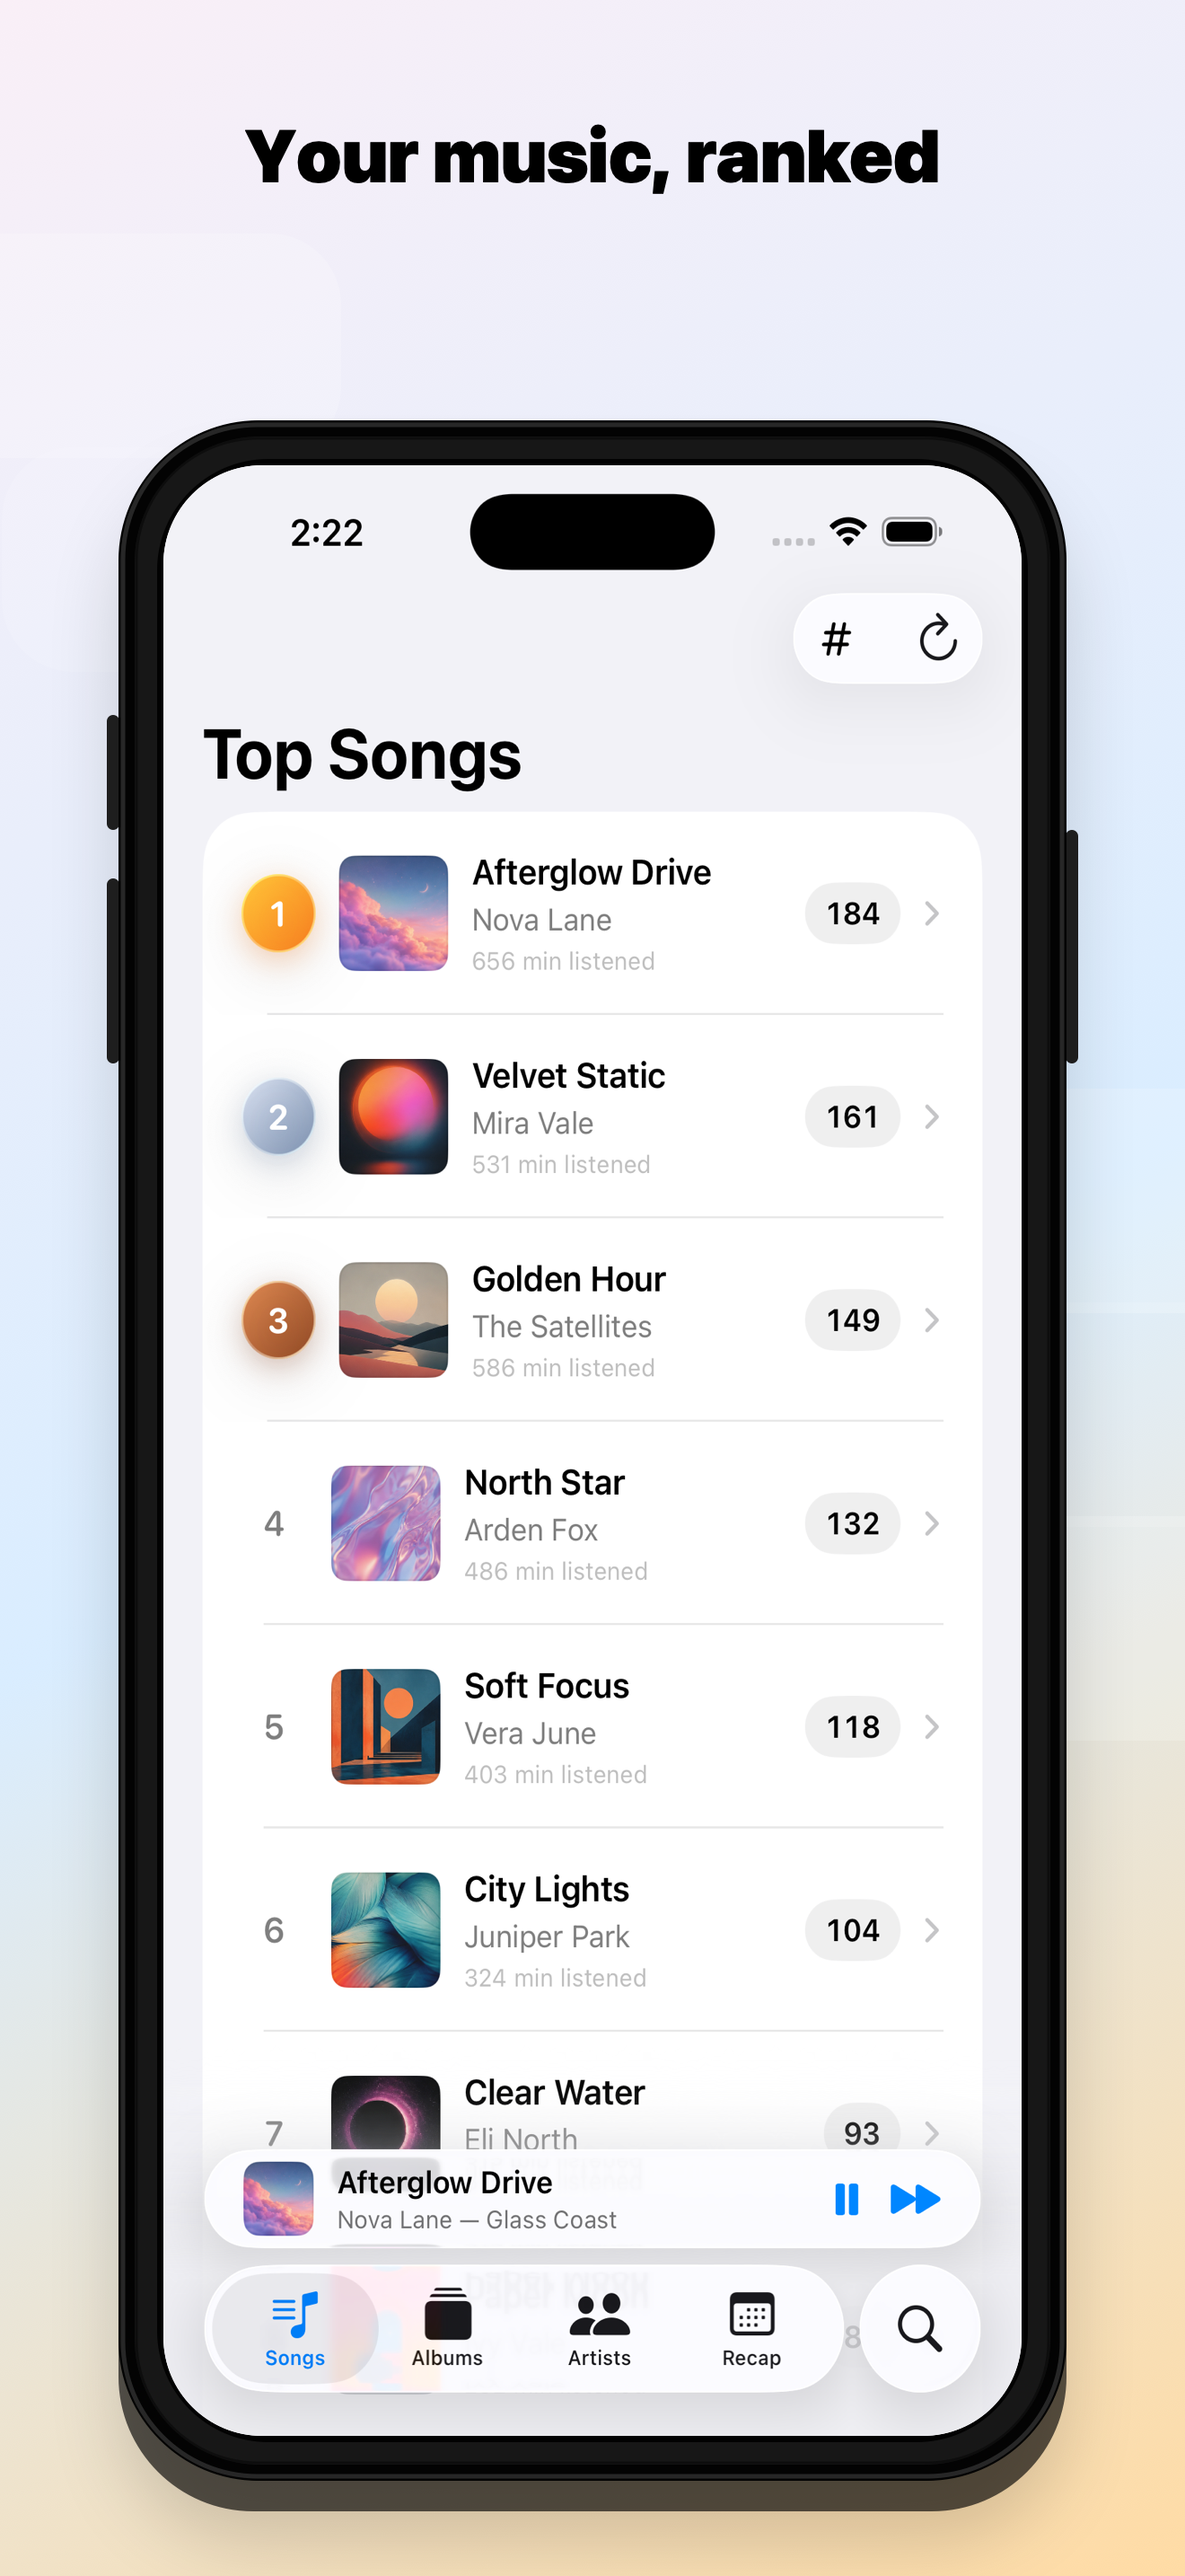
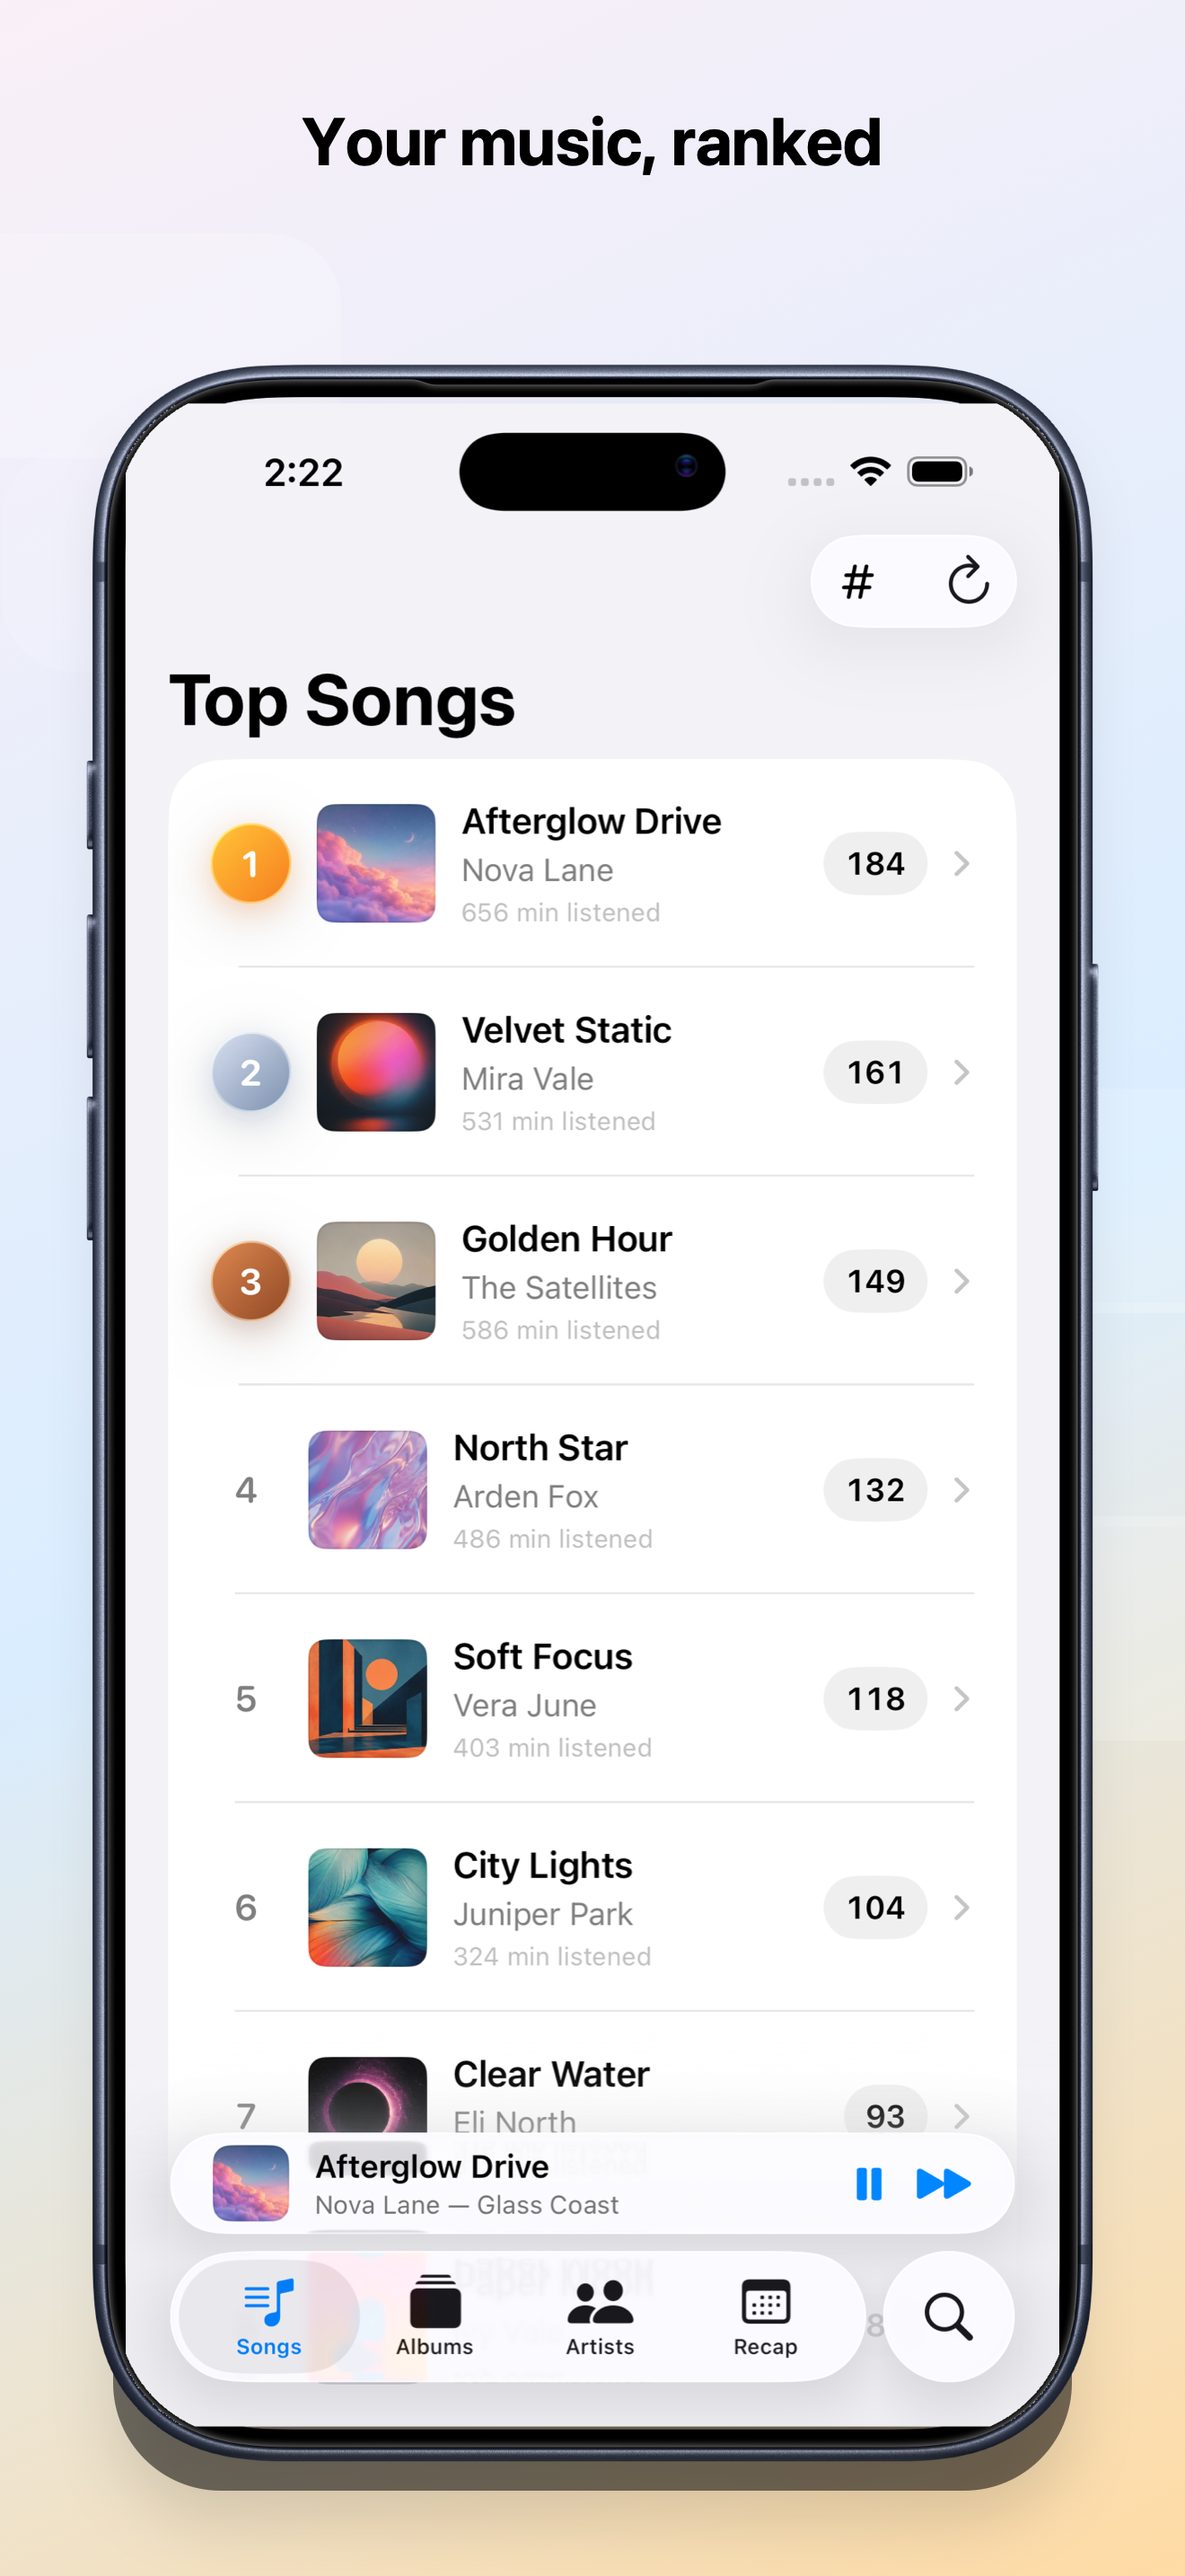
Use Apple bezel for App Store screenshots

diff --git a/tools/create_app_store_framed_screenshots.swift b/tools/create_app_store_framed_screenshots.swift
@@ -14,6 +14,9 @@ let inputDir = root.appendingPathComponent("AppStoreScreenshots")
 let outputDir = inputDir.appendingPathComponent("Framed")
 try FileManager.default.createDirectory(at: outputDir, withIntermediateDirectories: true)
 
+let defaultBezelPath = "/tmp/Bezel-iPhone-17/PNG/iPhone 17 Pro Max/iPhone 17 Pro Max - Deep Blue - Portrait.png"
+let bezelURL = URL(fileURLWithPath: ProcessInfo.processInfo.environment["PLAYCOUNT_APPSTORE_BEZEL"] ?? defaultBezelPath)
+
 let shots: [Shot] = [
     Shot(
         input: "01-top-songs.png",
@@ -58,9 +61,9 @@ let shots: [Shot] = [
 ]
 
 let canvasSize = CGSize(width: 1320, height: 2868)
-let phoneOuter = CGRect(x: 132, y: 468, width: 1056, height: 2294)
-let phoneBezel = phoneOuter.insetBy(dx: 18, dy: 18)
-let phoneInner = phoneOuter.insetBy(dx: 50, dy: 50)
+let deviceFrame = CGRect(x: 80, y: 390, width: 1160, height: 2367)
+let bezelScreenRect = CGRect(x: 76, y: 75, width: 1318, height: 2855)
+let titleRect = CGRect(x: 72, y: 118, width: 1176, height: 150)
 
 func flipped(_ rect: CGRect) -> CGRect {
     CGRect(x: rect.origin.x, y: canvasSize.height - rect.origin.y - rect.height, width: rect.width, height: rect.height)
@@ -123,45 +126,75 @@ func drawBackground(colors: [NSColor], context: CGContext) {
     context.restoreGState()
 }
 
-func drawPhoneShadow(context: CGContext) {
+func drawDeviceShadow(context: CGContext) {
     context.saveGState()
-    let shadowRect = phoneOuter.offsetBy(dx: 0, dy: 34)
-    context.setShadow(offset: CGSize(width: 0, height: -34), blur: 82, color: NSColor.black.withAlphaComponent(0.24).cgColor)
-    let path = CGPath(roundedRect: flipped(shadowRect), cornerWidth: 150, cornerHeight: 150, transform: nil)
+    let shadowRect = deviceFrame.offsetBy(dx: 0, dy: 38).insetBy(dx: 46, dy: 22)
+    context.setShadow(offset: CGSize(width: 0, height: -34), blur: 76, color: NSColor.black.withAlphaComponent(0.26).cgColor)
+    let path = CGPath(roundedRect: flipped(shadowRect), cornerWidth: 120, cornerHeight: 120, transform: nil)
     context.addPath(path)
-    context.setFillColor(NSColor.black.withAlphaComponent(0.64).cgColor)
+    context.setFillColor(NSColor.black.withAlphaComponent(0.52).cgColor)
     context.fillPath()
     context.restoreGState()
 }
 
-func drawDeviceFrame(context: CGContext) {
-    func sideButton(_ rect: CGRect, radius: CGFloat) {
-        let buttonPath = CGPath(roundedRect: flipped(rect), cornerWidth: radius, cornerHeight: radius, transform: nil)
-        context.addPath(buttonPath)
-        context.setFillColor(NSColor(calibratedWhite: 0.09, alpha: 1).cgColor)
-        context.fillPath()
+func screenRect(in destination: CGRect, bezelSize: CGSize) -> CGRect {
+    let scaleX = destination.width / bezelSize.width
+    let scaleY = destination.height / bezelSize.height
+    return CGRect(
+        x: destination.minX + bezelScreenRect.minX * scaleX,
+        y: destination.minY + bezelScreenRect.minY * scaleY,
+        width: bezelScreenRect.width * scaleX,
+        height: bezelScreenRect.height * scaleY
+    )
+}
+
+func transparentScreenBezel(from image: CGImage) throws -> CGImage {
+    let width = image.width
+    let height = image.height
+    let bytesPerPixel = 4
+    let bytesPerRow = width * bytesPerPixel
+    var pixels = [UInt8](repeating: 0, count: height * bytesPerRow)
+    let colorSpace = CGColorSpaceCreateDeviceRGB()
+
+    guard let bitmap = CGContext(
+        data: &pixels,
+        width: width,
+        height: height,
+        bitsPerComponent: 8,
+        bytesPerRow: bytesPerRow,
+        space: colorSpace,
+        bitmapInfo: CGImageAlphaInfo.premultipliedLast.rawValue
+    ) else {
+        throw NSError(domain: "renderer", code: 5)
     }
 
-    context.saveGState()
-    sideButton(CGRect(x: phoneOuter.minX - 13, y: phoneOuter.minY + 328, width: 14, height: 128), radius: 7)
-    sideButton(CGRect(x: phoneOuter.minX - 13, y: phoneOuter.minY + 510, width: 14, height: 206), radius: 7)
-    sideButton(CGRect(x: phoneOuter.maxX - 1, y: phoneOuter.minY + 456, width: 14, height: 260), radius: 7)
-    context.restoreGState()
+    bitmap.draw(image, in: CGRect(x: 0, y: 0, width: width, height: height))
 
-    drawRoundedRect(phoneOuter, radius: 156, color: NSColor(calibratedWhite: 0.015, alpha: 1), in: context)
-    drawRoundedRect(phoneBezel, radius: 140, color: NSColor(calibratedWhite: 0.07, alpha: 1), in: context)
-    drawRoundedRect(phoneInner.insetBy(dx: -7, dy: -7), radius: 124, color: NSColor(calibratedWhite: 0.012, alpha: 1), in: context)
+    let minX = max(0, Int(bezelScreenRect.minX))
+    let maxX = min(width, Int(bezelScreenRect.maxX))
+    let minY = max(0, Int(bezelScreenRect.minY))
+    let maxY = min(height, Int(bezelScreenRect.maxY))
 
-    context.saveGState()
-    context.setStrokeColor(NSColor.white.withAlphaComponent(0.14).cgColor)
-    context.setLineWidth(5)
-    context.addPath(CGPath(roundedRect: flipped(phoneOuter.insetBy(dx: 5, dy: 5)), cornerWidth: 150, cornerHeight: 150, transform: nil))
-    context.strokePath()
-    context.setStrokeColor(NSColor.black.withAlphaComponent(0.42).cgColor)
-    context.setLineWidth(3)
-    context.addPath(CGPath(roundedRect: flipped(phoneBezel.insetBy(dx: 2, dy: 2)), cornerWidth: 136, cornerHeight: 136, transform: nil))
-    context.strokePath()
-    context.restoreGState()
+    for y in minY..<maxY {
+        for x in minX..<maxX {
+            let offset = y * bytesPerRow + x * bytesPerPixel
+            let red = pixels[offset]
+            let green = pixels[offset + 1]
+            let blue = pixels[offset + 2]
+            let alpha = pixels[offset + 3]
+            if alpha > 0 && red < 18 && green < 18 && blue < 22 {
+                pixels[offset] = 0
+                pixels[offset + 1] = 0
+                pixels[offset + 2] = 0
+                pixels[offset + 3] = 0
+            }
+        }
+    }
+
+    guard let output = bitmap.makeImage() else {
+        throw NSError(domain: "renderer", code: 6)
+    }
+    return output
 }
 
 func render(_ shot: Shot) throws {
@@ -181,36 +214,33 @@ func render(_ shot: Shot) throws {
 
     drawText(
         shot.title,
-        rect: CGRect(x: 86, y: 128, width: 1148, height: 150),
-        font: NSFont.systemFont(ofSize: 82, weight: .black),
+        rect: titleRect,
+        font: NSFont.systemFont(ofSize: 74, weight: .bold),
         color: .black,
         context: context,
         alignment: .center,
-        lineHeight: 92
+        lineHeight: 82
     )
 
-    drawPhoneShadow(context: context)
-    drawDeviceFrame(context: context)
-    drawRoundedRect(phoneInner, radius: 110, color: .white, in: context)
+    guard let bezelImage = NSImage(contentsOf: bezelURL),
+          let bezelCGImage = bezelImage.cgImage(forProposedRect: nil, context: nil, hints: nil) else {
+        throw NSError(domain: "renderer", code: 7, userInfo: [NSLocalizedDescriptionKey: "Missing Apple bezel image at \(bezelURL.path)"])
+    }
+    let bezelOverlay = try transparentScreenBezel(from: bezelCGImage)
+    let screenDestination = screenRect(in: deviceFrame, bezelSize: CGSize(width: bezelCGImage.width, height: bezelCGImage.height))
 
     let inputURL = inputDir.appendingPathComponent(shot.input)
     guard let source = NSImage(contentsOf: inputURL), let cgImage = source.cgImage(forProposedRect: nil, context: nil, hints: nil) else {
         throw NSError(domain: "renderer", code: 2, userInfo: [NSLocalizedDescriptionKey: "Missing input \(shot.input)"])
     }
 
+    drawDeviceShadow(context: context)
     context.saveGState()
-    context.addPath(CGPath(roundedRect: flipped(phoneInner), cornerWidth: 110, cornerHeight: 110, transform: nil))
+    context.addPath(CGPath(roundedRect: flipped(screenDestination), cornerWidth: 74, cornerHeight: 74, transform: nil))
     context.clip()
-    context.draw(cgImage, in: flipped(phoneInner))
+    context.draw(cgImage, in: flipped(screenDestination))
     context.restoreGState()
-
-    context.saveGState()
-    context.setBlendMode(.overlay)
-    context.setStrokeColor(NSColor.white.withAlphaComponent(0.22).cgColor)
-    context.setLineWidth(3)
-    context.addPath(CGPath(roundedRect: flipped(phoneInner.insetBy(dx: -3, dy: -3)), cornerWidth: 116, cornerHeight: 116, transform: nil))
-    context.strokePath()
-    context.restoreGState()
+    context.draw(bezelOverlay, in: flipped(deviceFrame))
 
     guard let image = context.makeImage() else {
         throw NSError(domain: "renderer", code: 3)
